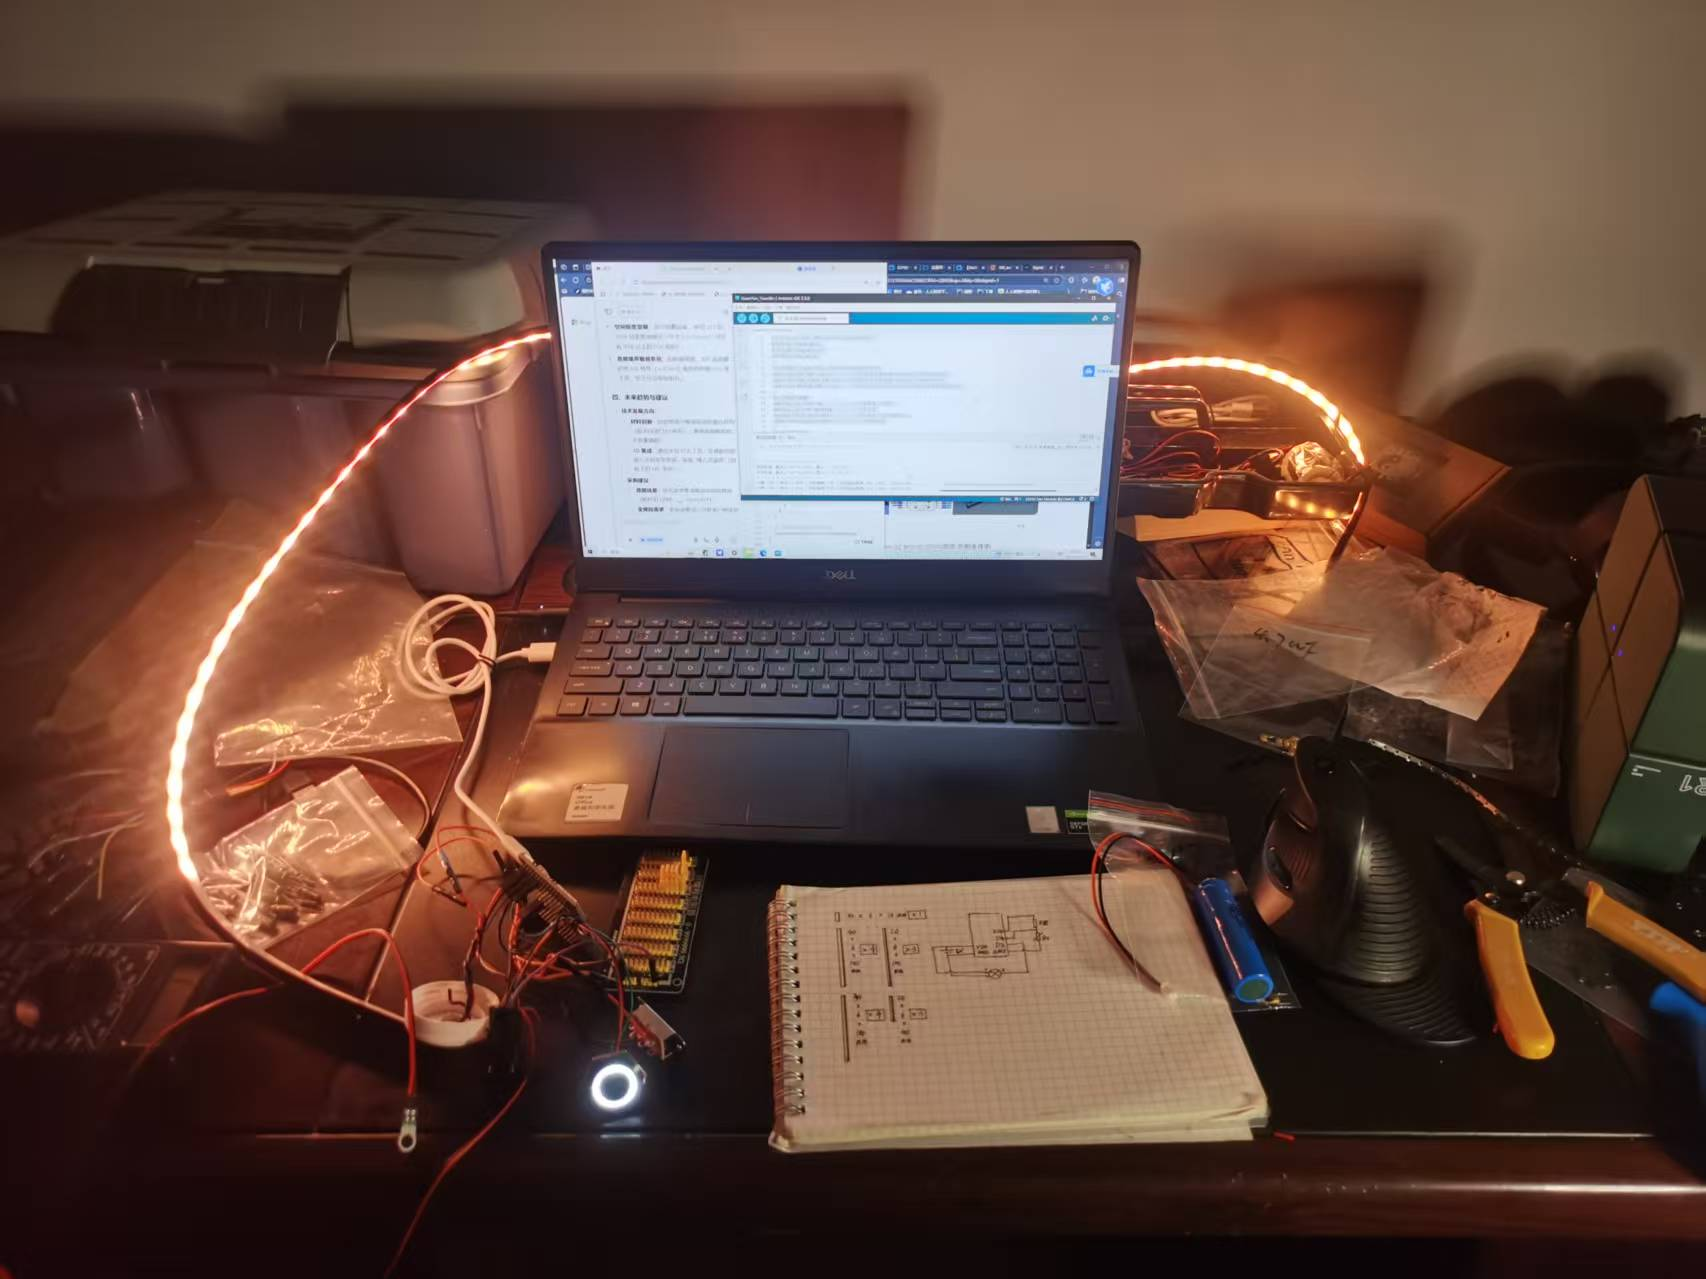
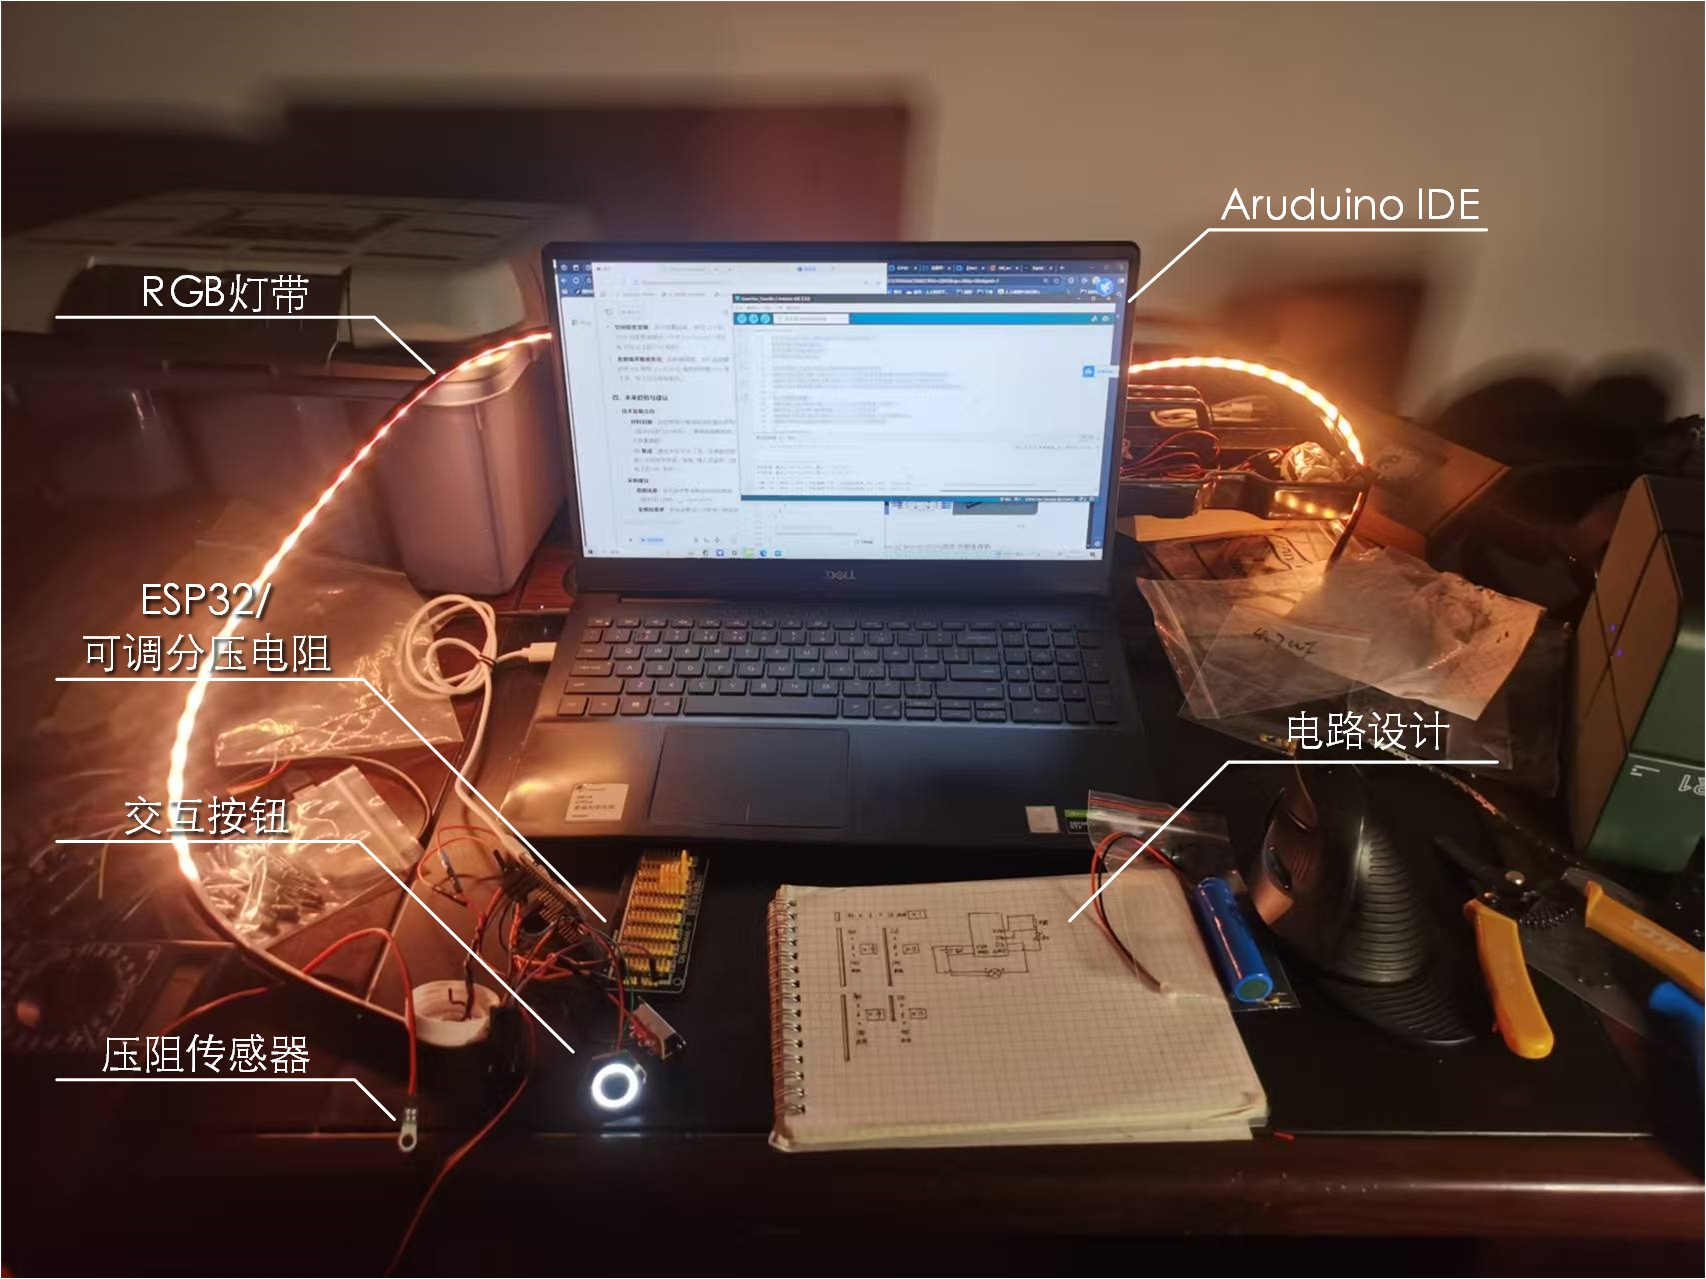
更新内容

diff --git a/public/portfolio/index.html b/public/portfolio/index.html
@@ -755,6 +755,81 @@
     }
     .komorebi-images .image-card { min-height: auto; }
 
+    /* ── Hero info card (Role + V1-V2 Vision) ── */
+    .hero-info-card {
+      margin-top: 28px;
+      background: linear-gradient(135deg, rgba(255,106,0,0.05) 0%, rgba(255,255,255,0.018) 100%);
+      border: 1px solid rgba(255,106,0,0.18);
+      border-radius: 18px;
+      padding: 20px 24px;
+      display: grid;
+      gap: 0;
+      position: relative;
+      overflow: hidden;
+    }
+    .hero-info-card::after {
+      content: "";
+      position: absolute; inset: auto -40px -40px auto;
+      width: 160px; height: 160px;
+      background: radial-gradient(circle, rgba(255,106,0,0.12), transparent 65%);
+      filter: blur(12px); pointer-events: none;
+    }
+    .hero-info-row {
+      display: grid;
+      grid-template-columns: 110px 1fr;
+      gap: 16px;
+      padding: 14px 0;
+      align-items: start;
+    }
+    .hero-info-divider {
+      height: 1px;
+      background: rgba(255,106,0,0.15);
+    }
+    .hero-info-label {
+      font-size: 10.5px;
+      letter-spacing: 0.16em;
+      text-transform: uppercase;
+      color: var(--accent);
+      padding-top: 3px;
+      font-weight: 600;
+    }
+    .hero-info-primary {
+      font-size: 14px;
+      color: var(--text);
+      letter-spacing: 0.01em;
+      margin-bottom: 5px;
+    }
+    .hero-info-sub {
+      font-size: 12.5px;
+      color: var(--muted);
+      line-height: 1.65;
+    }
+    .hero-info-body {
+      display: grid;
+      gap: 10px;
+    }
+    .hero-info-vision-item {
+      display: flex;
+      gap: 10px;
+      align-items: baseline;
+      font-size: 13px;
+      color: #c4beb5;
+      line-height: 1.72;
+    }
+    .hero-info-tag {
+      flex-shrink: 0;
+      font-size: 10px;
+      letter-spacing: 0.12em;
+      color: var(--accent);
+      background: rgba(255,106,0,0.12);
+      border: 1px solid rgba(255,106,0,0.3);
+      border-radius: 4px;
+      padding: 2px 7px;
+      text-transform: uppercase;
+      font-weight: 700;
+      margin-top: 2px;
+    }
+
     /* ── Reveal ── */
     .reveal { opacity: 0; transform: translateY(20px); transition: opacity 800ms var(--ease), transform 800ms var(--ease); }
     .reveal.visible { opacity: 1; transform: translateY(0); }
@@ -914,11 +989,36 @@
             breath in,<br/>space responds.
           </h1>
           
-          <!-- 副标题：项目长描述，小一号无serif体 -->
+          <!-- 副标题：项目长描述 -->
           <p class="hero-copy reveal">
-            一套完整的交互装置系统——从呼吸与 HRV 生理数据采集，到嵌入式实时解算、蓝牙数据传输、TouchDesigner 视觉联动，到最终的空间沉浸体验与焦虑缓解效果验证。我在这个项目中同时承担系统架构、嵌入式开发、信号处理和视觉叙事。
+            一套完整的交互装置系统——从呼吸与 HRV 生理数据采集，到嵌入式实时解算、蓝牙数据传输、TouchDesigner 视觉联动，到最终的空间沉浸体验与焦虑缓解效果验证。我在项目中同时完成了系统架构、嵌入式开发、信号处理和视觉叙事。
           </p>
-          
+
+          <!-- Role + V1-V2 Vision 信息容器 -->
+          <div class="hero-info-card reveal magnetic">
+            <div class="hero-info-row">
+              <div class="hero-info-label">Role（角色）</div>
+              <div class="hero-info-body">
+                <div class="hero-info-primary">系统架构 · 嵌入式原型 · 信号处理 · 人机交互 · 视觉体验</div>
+                <div class="hero-info-sub">独立完成从传感采集到空间表达的全链路开发。</div>
+              </div>
+            </div>
+            <div class="hero-info-divider"></div>
+            <div class="hero-info-row">
+              <div class="hero-info-label">V1-V2 Vision</div>
+              <div class="hero-info-body">
+                <div class="hero-info-vision-item">
+                  <span class="hero-info-tag">V1</span>
+                  <span>产品导向，完成用户需求调研，快速开发功能原型与效果量化工具。设计收纳结构与外观风格。</span>
+                </div>
+                <div class="hero-info-vision-item">
+                  <span class="hero-info-tag">V2</span>
+                  <span>营销导向，思考真实市场推广路径，应用非接触式呼吸感知，空间以阳光色温与树影节律响应用户的每次呼吸。还原真实户外光影，作为帐篷产品的体验式营销方案。</span>
+                </div>
+              </div>
+            </div>
+          </div>
+
           <!-- CTA按钮行：两个按钮并排 -->
           <div class="cta-row reveal">
             <a class="btn primary magnetic" href="#gallery">Visual Narrative →</a>
@@ -927,6 +1027,17 @@
         </div>
         <!-- 右侧：媒体堆栈(图像卡片) -->
         <div class="hero-media reveal">
+          <!-- 实时输出效果图（全宽） -->
+          <div class="image-card medium magnetic lightbox-trigger"
+               data-kicker="V1 Vision"
+               data-caption="极简原型开发期间的工作台，反复调试呼吸腰带的模拟数据到灯带RGB数字数据的滤波与映射。">
+            <img src="./assets/8a100a440f5687bbc0fe8278cb902229.jpg" alt="Main visualization output" />
+            <div class="image-overlay">
+              <div class="image-kicker">V1 Vision</div>
+              <p class="image-caption">极简原型开发期间的工作台，反复调试呼吸腰带的模拟数据到灯带RGB数字数据的滤波与映射。</p>
+            </div>
+          </div>
+
           <!-- 大图卡片：目标渲染图 -->
           <div class="image-card tall magnetic"
                data-kicker="V2 Vision"
@@ -939,27 +1050,6 @@
               <div class="image-kicker">V2 Vision</div>
               <h3 class="image-title">呼吸驱动整个空间的光影。</h3>
               <p class="image-caption">V2 阶段的目标渲染——非接触式呼吸感知，空间以朝霞色温与树影节律响应每次呼吸。</p>
-            </div>
-          </div>
-          
-          <!-- 下方两列小卡片(meta-card + image-card) -->
-          <div class="hero-stack">
-            <!-- 角色信息元信息卡片 -->
-            <div class="meta-card magnetic">
-              <div class="meta-label">Role</div>
-              <div class="meta-value">系统架构 · 嵌入式原型 · 信号处理 · 视觉联动</div>
-              <div class="meta-small">独立完成从传感采集到空间表达的全链路开发。</div>
-            </div>
-            
-            <!-- 实时输出效果图 -->
-            <div class="image-card short magnetic lightbox-trigger"
-                 data-kicker="Realtime output"
-                 data-caption="呼吸算法输出经 TouchDesigner 处理后的木漏日视觉形态——光温与影速实时随呼吸节律变化。">
-              <img src="./assets/main-visualization.png" alt="Main visualization output" />
-              <div class="image-overlay">
-                <div class="image-kicker">Realtime output</div>
-                <p class="image-caption">呼吸算法输出驱动的投影光影实时形态。</p>
-              </div>
             </div>
           </div>
         </div>
@@ -984,10 +1074,10 @@
       <div class="section-head reveal">
         <div>
           <span class="eyebrow">Project overview</span>
-          <h2 class="section-title">给神经系统<br/>一个安静的接口。</h2>
+          <h2 class="section-title">身体不是容器<br/>是认知本身。</h2>
         </div>
         <div class="section-desc">
-          Meditation Tent 是一套交互装置系统。早期版本通过腰带压力传感和 HRV 手环探索生理输入与反馈映射，后期引入毫米波雷达做非接触呼吸检测，最终通过木漏日投影构建空间级反馈。HRV 手环始终保留——它的角色是效能验证：评估装置是否帮助使用者降低焦虑、提升副交感神经活跃度，形成"体验层 + 验证层"的双层架构。
+          Meditation Tent 是一套帮助用户感受自己身心状态的系统。早期版本通过腰带压力传感和 HRV 手环探索生理输入与反馈映射，后期引入毫米波雷达做非接触呼吸检测，通过光斑投影构建空间级反馈。HRV 手环始终保留作为效能验证：评估装置是否帮助使用者降低焦虑、提升副交感神经活跃度，形成"体验层 + 验证层"的双层架构。
         </div>
       </div>
 
@@ -996,21 +1086,21 @@
         <!-- 卡片1：占用右下2行，展示大编号+标题+正文 -->
         <article class="card span-2r reveal magnetic">
           <div class="big-number">01</div>
-          <h3>项目的核心判断</h3>
-          <p>多数冥想类产品停留在感官氛围层面，体验柔和，反馈却缺少个体化。真正能帮助初学者进入状态的是"自身生理节律被清晰觉察并即时回应"——整个项目围绕一个工程问题展开：如何把看不见的呼吸与自主神经状态，转成可被身体重新理解的空间反馈。</p>
+          <h3>项目背景</h3>
+          <p> "无意义感"在2023—2024年跻身大众最困扰心理问题的第二位，年轻人对身体信号、情感体验、现实边界的感受力集体下滑，其底层机制是身体经验被屏幕经验替代。卡巴金疗法认为，能起到帮助的是"患者自身生理节律被清晰觉察并即时回应"，这使得本产品设计围绕一个工程问题展开：如何成为把潜意识的身体信号拉回显意识层面的良好媒介。</p>
         </article>
 
         <!-- 卡片2：标准卡片尺寸 -->
         <article class="card reveal magnetic">
           <div class="meta-label">体验闭环</div>
           <h3>Experience Loop</h3>
-          <p>进入装置 → 被感知 → 获得反馈 → 节律趋稳 → 状态改善 → 数据验证。一个完整闭环，每个环节对应明确的技术实现。</p>
+          <p>进入装置 → 被感知 → 获得反馈 → 节律趋稳 → 状态改善 → 数据验证。算法参与生命过程，并通过感官反馈而非数字指标，形成重建具身认知的完整闭环。</p>
         </article>
 
         <!-- 卡片3：标准卡片尺寸 -->
         <article class="card reveal magnetic">
           <div class="meta-label">投影视觉</div>
-          <h3>木漏日 · 霞光映射</h3>
+          <h3>主视觉：木漏日</h3>
           <p>投影重现阳光穿透树叶的光影交织——使用者越平静，光色越趋近霞光的暖红，树影的晃动也越轻缓。</p>
         </article>
 
@@ -1018,7 +1108,7 @@
         <article class="card span-2c reveal magnetic">
           <div class="meta-label">系统定位</div>
           <h3>可测量的身心交互界面</h3>
-          <p>同时关心两件事：它是否足够打动人，它是否真的产生了生理层面的积极效果。前者需要空间设计与视觉表达，后者需要可量化的验证指标。两条线始终同步推进。</p>
+          <p>同时关心两件事：它是否真的产生了生理层面的积极效果；是否能够不依赖冰冷的健康数据直接打动用户。前者需要传感器提供可量化的生理指标，后者需要交互设计与视觉表达。两条线先后开始推进。</p>
         </article>
       </div>
     </section>
@@ -1099,7 +1189,7 @@
             <div class="image-overlay">
               <div class="image-kicker">实景搭建</div>
               <h3 class="image-title">装置已经是一个房间。</h3>
-              <p class="image-caption">半围合白色空间、坐垫、植物与投影光影构成可在任意室内地点搭建的体验现场，允许用户侧卧于其中，凝神感受呼吸起伏。</p>
+              <p class="image-caption">半围合白色空间、坐垫、植物与投影光影构成可在任意室内地点搭建的体验现场，允许用户舒适地卧于其中，凝神感受呼吸起伏。</p>
             </div>
           </div>
         </div>
@@ -1143,7 +1233,7 @@
         <div class="mapping-card reveal magnetic">
           <div class="mapping-index">映射轨道二 · 影速</div>
           <div class="mapping-title">呼吸节律驱动树影漂移。</div>
-          <p class="mapping-desc">树叶阴影的晃动速度直接由呼吸节律驱动。慢而深的呼吸让叶影趋向冥想性的静止，呼吸加快则影子的律动随之苏醒。空间在每次呼吸的间隔中，轻轻摇晃。</p>
+          <p class="mapping-desc">树叶阴影的晃动速度直接由呼吸节律驱动。慢而深的呼吸让叶影趋向冥想性的静止，呼吸加快则影子的律动随之苏醒。</p>
           <div class="mapping-detail">技术对位：呼吸周期时长映射至 TouchDesigner 粒子节点中的扰动频率与平移参数</div>
         </div>
       </div>
@@ -1152,14 +1242,14 @@
       <div class="komorebi-images" style="margin-top: 20px;">
         <div class="image-card ar-3-2 reveal magnetic"
              data-kicker="木漏日灵感"
-             data-caption="灵感参照——重装徒步中拍摄的黄昏。帐篷内透过篷布看到的树影与霞光，是整个投影系统视觉语言的起点。">
+             data-caption="灵感参照——在重装徒步中拍摄的黄昏。帐篷内透过篷布看到的树影与霞光，是V2投影系统视觉语言的起点。">
           <video autoplay loop muted playsinline style="width:100%;height:100%;object-fit:cover;pointer-events:none;">
             <source src="https://pub-0775e3993fdd43b8a695d881b02d8150.r2.dev/tent-komorebi.mp4" type="video/mp4">
           </video>
           <div class="image-overlay">
             <div class="image-kicker">木漏日灵感</div>
             <h3 class="image-title">投影语言的起点。</h3>
-            <p class="image-caption">重装徒步中拍摄的黄昏——帐篷内透过篷布看到的树影与霞光。</p>
+            <p class="image-caption">在重装徒步中拍摄的黄昏——帐篷内透过篷布看到的树影与霞光，是V2投影系统视觉语言的起点。</p>
           </div>
         </div>
         <div class="image-card ar-3-2 reveal magnetic lightbox-trigger"
@@ -1859,9 +1949,9 @@
               <span>姓名</span>
               <span>李承泽</span>
             </div>
-            <a href="mailto:2636520057@qq.com" class="contact-line magnetic">
+            <a href="/cdn-cgi/l/email-protection#32000401040700020207057243431c515d5f" class="contact-line magnetic">
               <span>Email</span>
-              <span>2636520057@qq.com</span>
+              <span><span class="__cf_email__" data-cfemail="51636762676463616164661120207f323e3c">[email&#160;protected]</span></span>
             </a>
             <a href="tel:13651630034" class="contact-line magnetic">
               <span>Telephone</span>
@@ -1901,7 +1991,7 @@
   -->
   <div class="footer-note">Meditation Tent — Interactive Installation Portfolio</div>
 
-  <script>
+  <script data-cfasync="false" src="/cdn-cgi/scripts/5c5dd728/cloudflare-static/email-decode.min.js"></script><script>
     /*
     ═════════════════════════════════════════════════════════════════════════════
     【自定义光标系统】
@@ -2108,7 +2198,7 @@
       });
     }
 
-    document.querySelectorAll('.card, .image-card, .stat-card, .tool, .contact-card, .quote, .svg-card, .mapping-card, .arch-flow, .meta-card, .btn').forEach(setupSpread);
+    document.querySelectorAll('.card, .image-card, .stat-card, .tool, .contact-card, .quote, .svg-card, .mapping-card, .arch-flow, .meta-card, .btn, .hero-info-card').forEach(setupSpread);
     /* 
     为所有交互卡片应用点击涂布效果
     包含的卡片类型：
